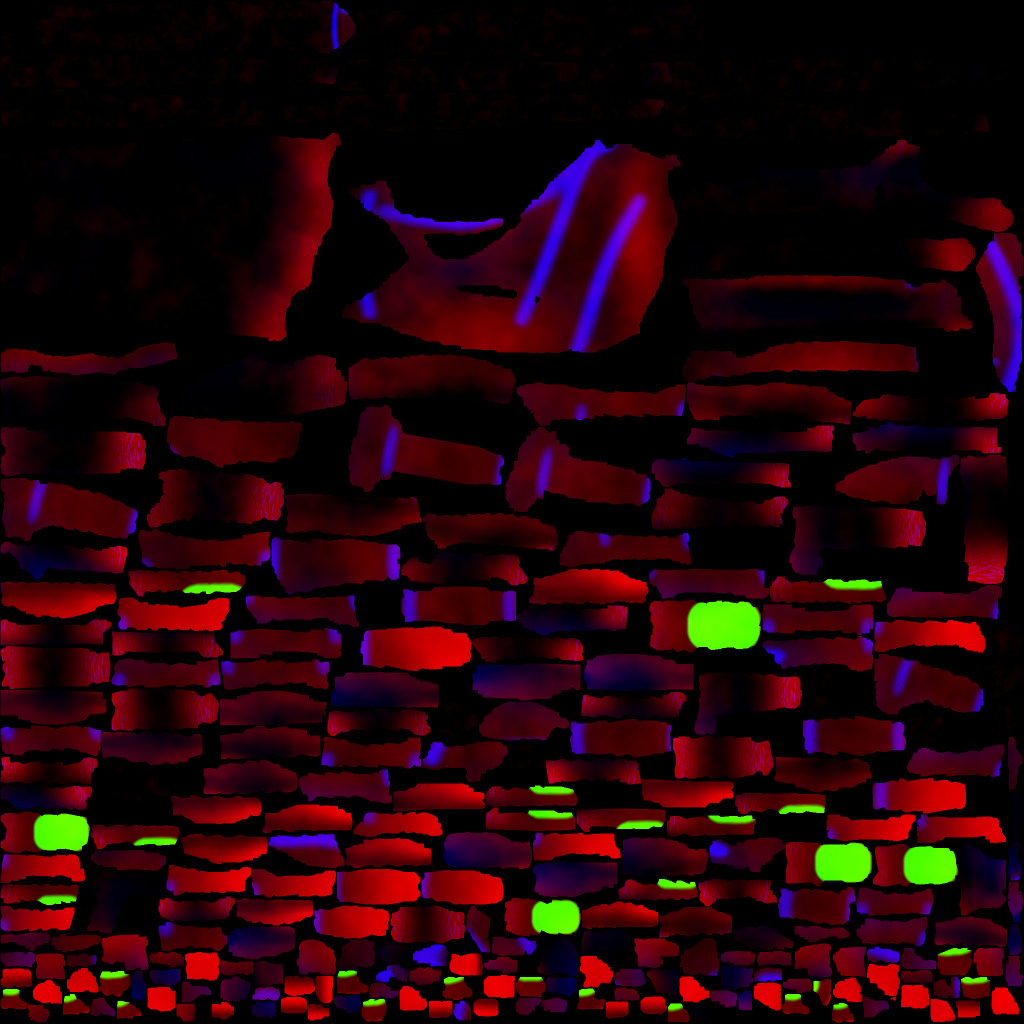
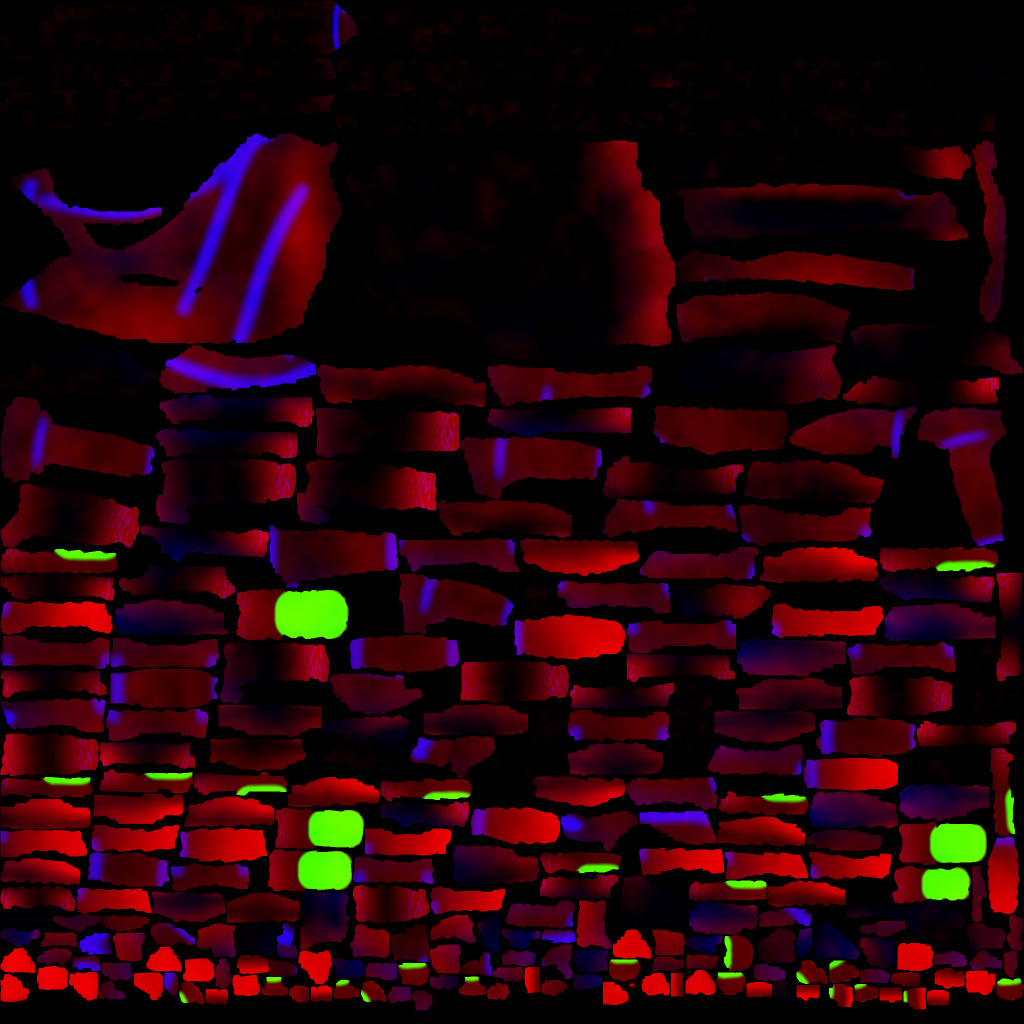
Fill the pits at the thumb's base on the back of the hand
The palm's rounded edge, the forearm's end and the thumb's metacarpal left two
hollows on the thumb side: one at the wrist and one on the back of the web
between thumb and index. The realistic look's baked occlusion turned the
second into a dark round blotch, visible in any view of the back of the hand.
Add the wrist bones under the thumb's base and the belly of the first dorsal
interosseous, and rebake the skin maps.

diff --git a/crates/handkit-mesh/src/sdf.rs b/crates/handkit-mesh/src/sdf.rs
@@ -518,6 +518,14 @@ pub fn hand_field(h: &HandGeom) -> Field {
         group: 1,
         k: 0.008,
     });
+    // The wrist bones under the thumb's base (scaphoid and trapezium), filling the seam where
+    // the forearm, the palm's edge and the thumb meet, which otherwise shows as a pit.
+    prims.push(Prim {
+        shape: ellipsoid(hw(0.0195, 0.003, -0.0005), [hv(DVec3::X), hv(DVec3::Y), hv(DVec3::Z)], dvec3(0.0095, 0.013, 0.0095)),
+        bone: hand,
+        group: 1,
+        k: 0.008,
+    });
     // ...and its bulk runs along the palm side of the thumb's metacarpal, moving with it.
     {
         let bi = bone(h, "thumb_cmc");
@@ -547,6 +555,15 @@ pub fn hand_field(h: &HandGeom) -> Field {
         let a = hw(0.029, 0.060, -0.002);
         let b = t.frame.transform_point3(dvec3(0.0, 0.1 * t.len, 0.0));
         prims.push(Prim { shape: Shape::RoundCone { a, b, ra: 0.0085, rb: 0.0062 }, bone: hand, group: 1, k: 0.008 });
+        // Its belly fills the back of the web between the two metacarpals, which would
+        // otherwise sink into a pit where the thumb's base meets the palm's edge.
+        let axis = dvec3(0.25, 1.0, 0.0).normalize();
+        prims.push(Prim {
+            shape: ellipsoid(hw(0.036, 0.052, -0.004), [hv(DVec3::Z.cross(axis)), hv(axis), hv(DVec3::Z)], dvec3(0.007, 0.016, 0.0065)),
+            bone: hand,
+            group: 1,
+            k: 0.008,
+        });
     }
     groups.push(0.006);
 
